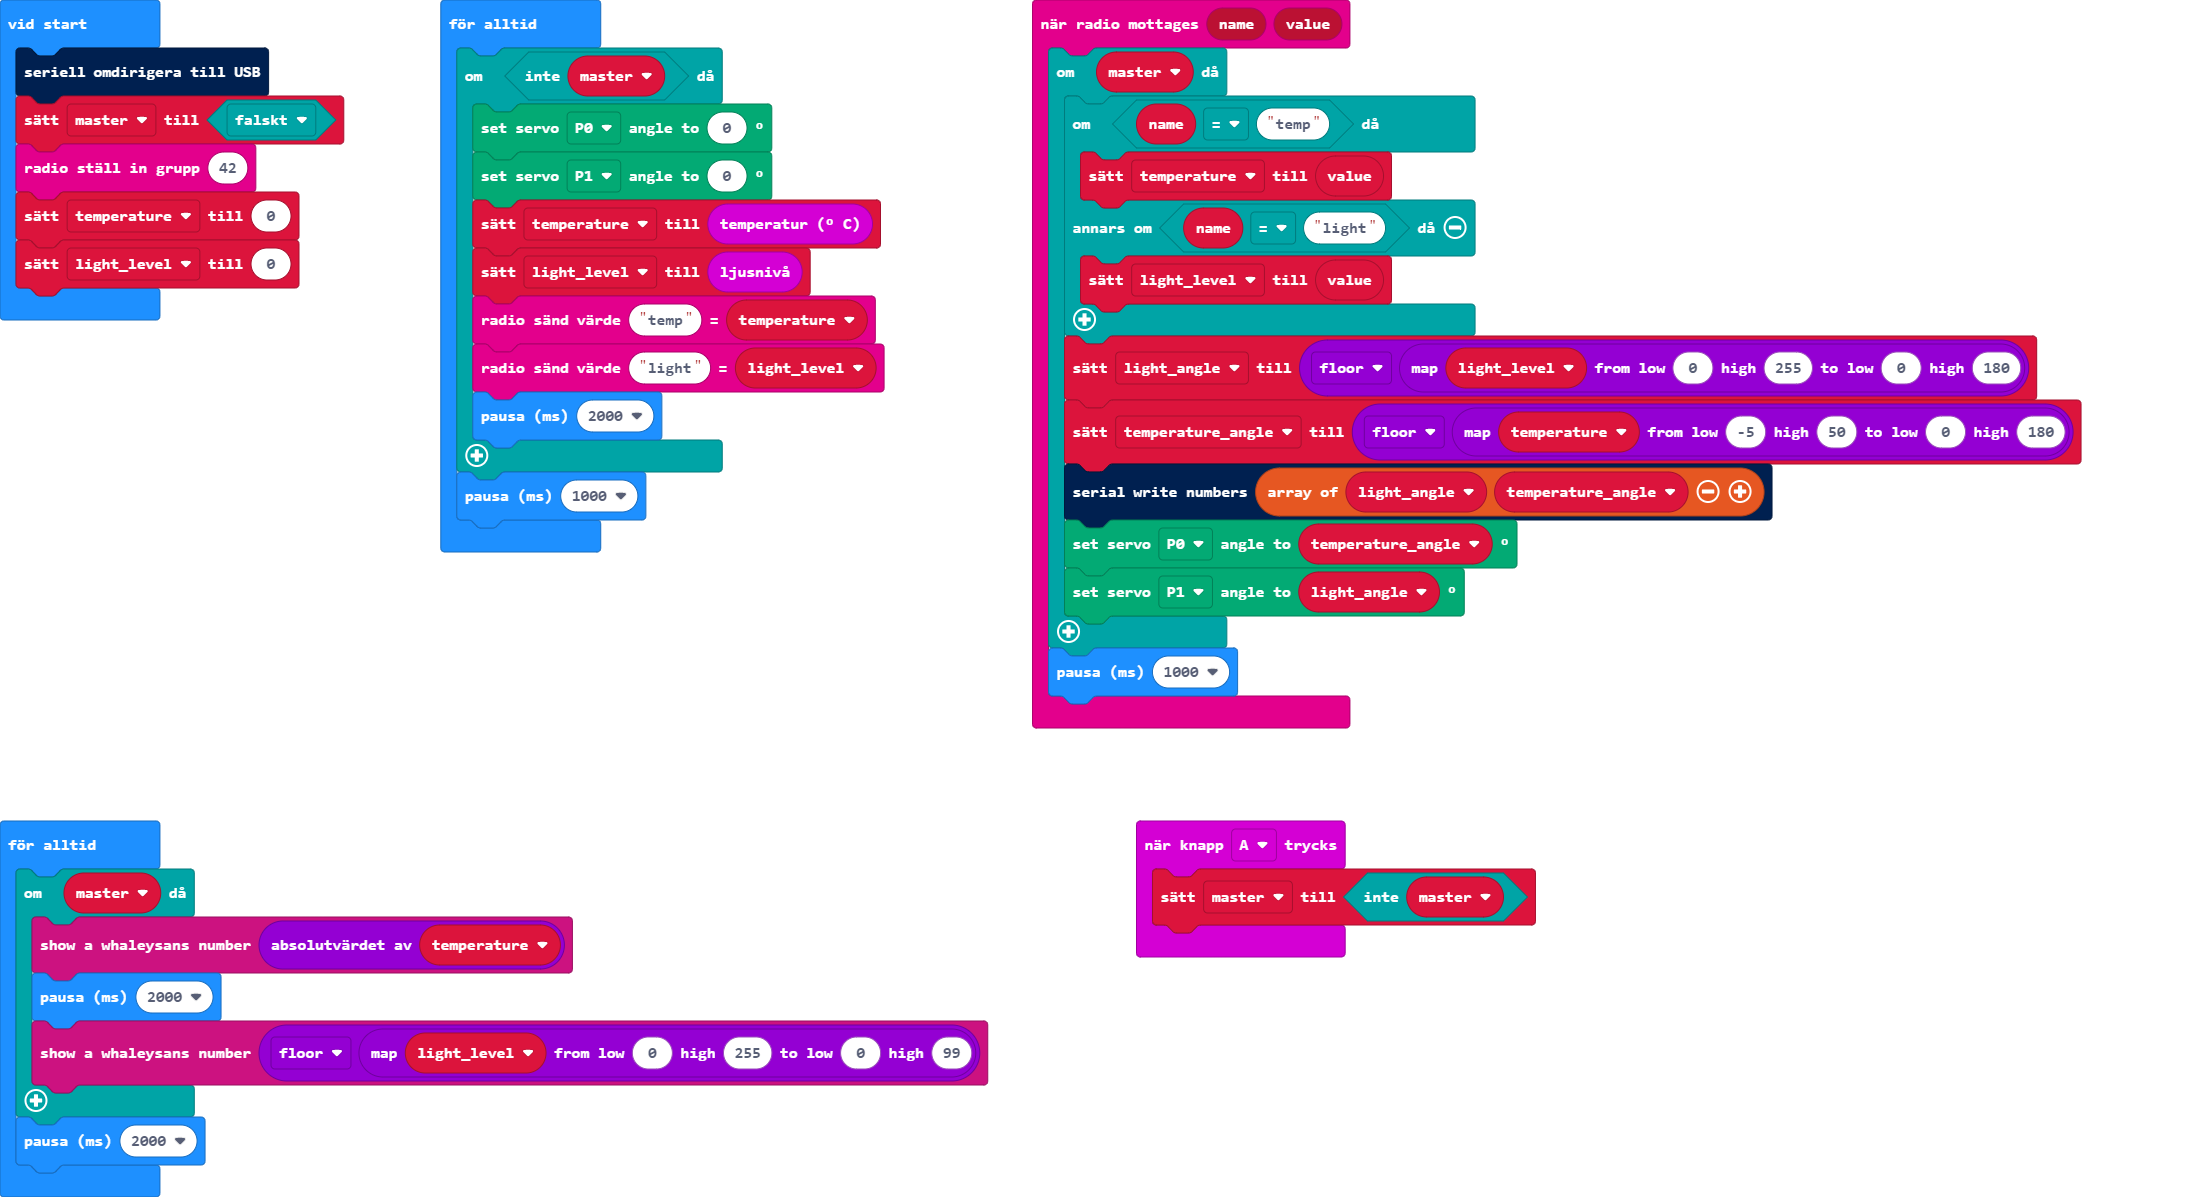
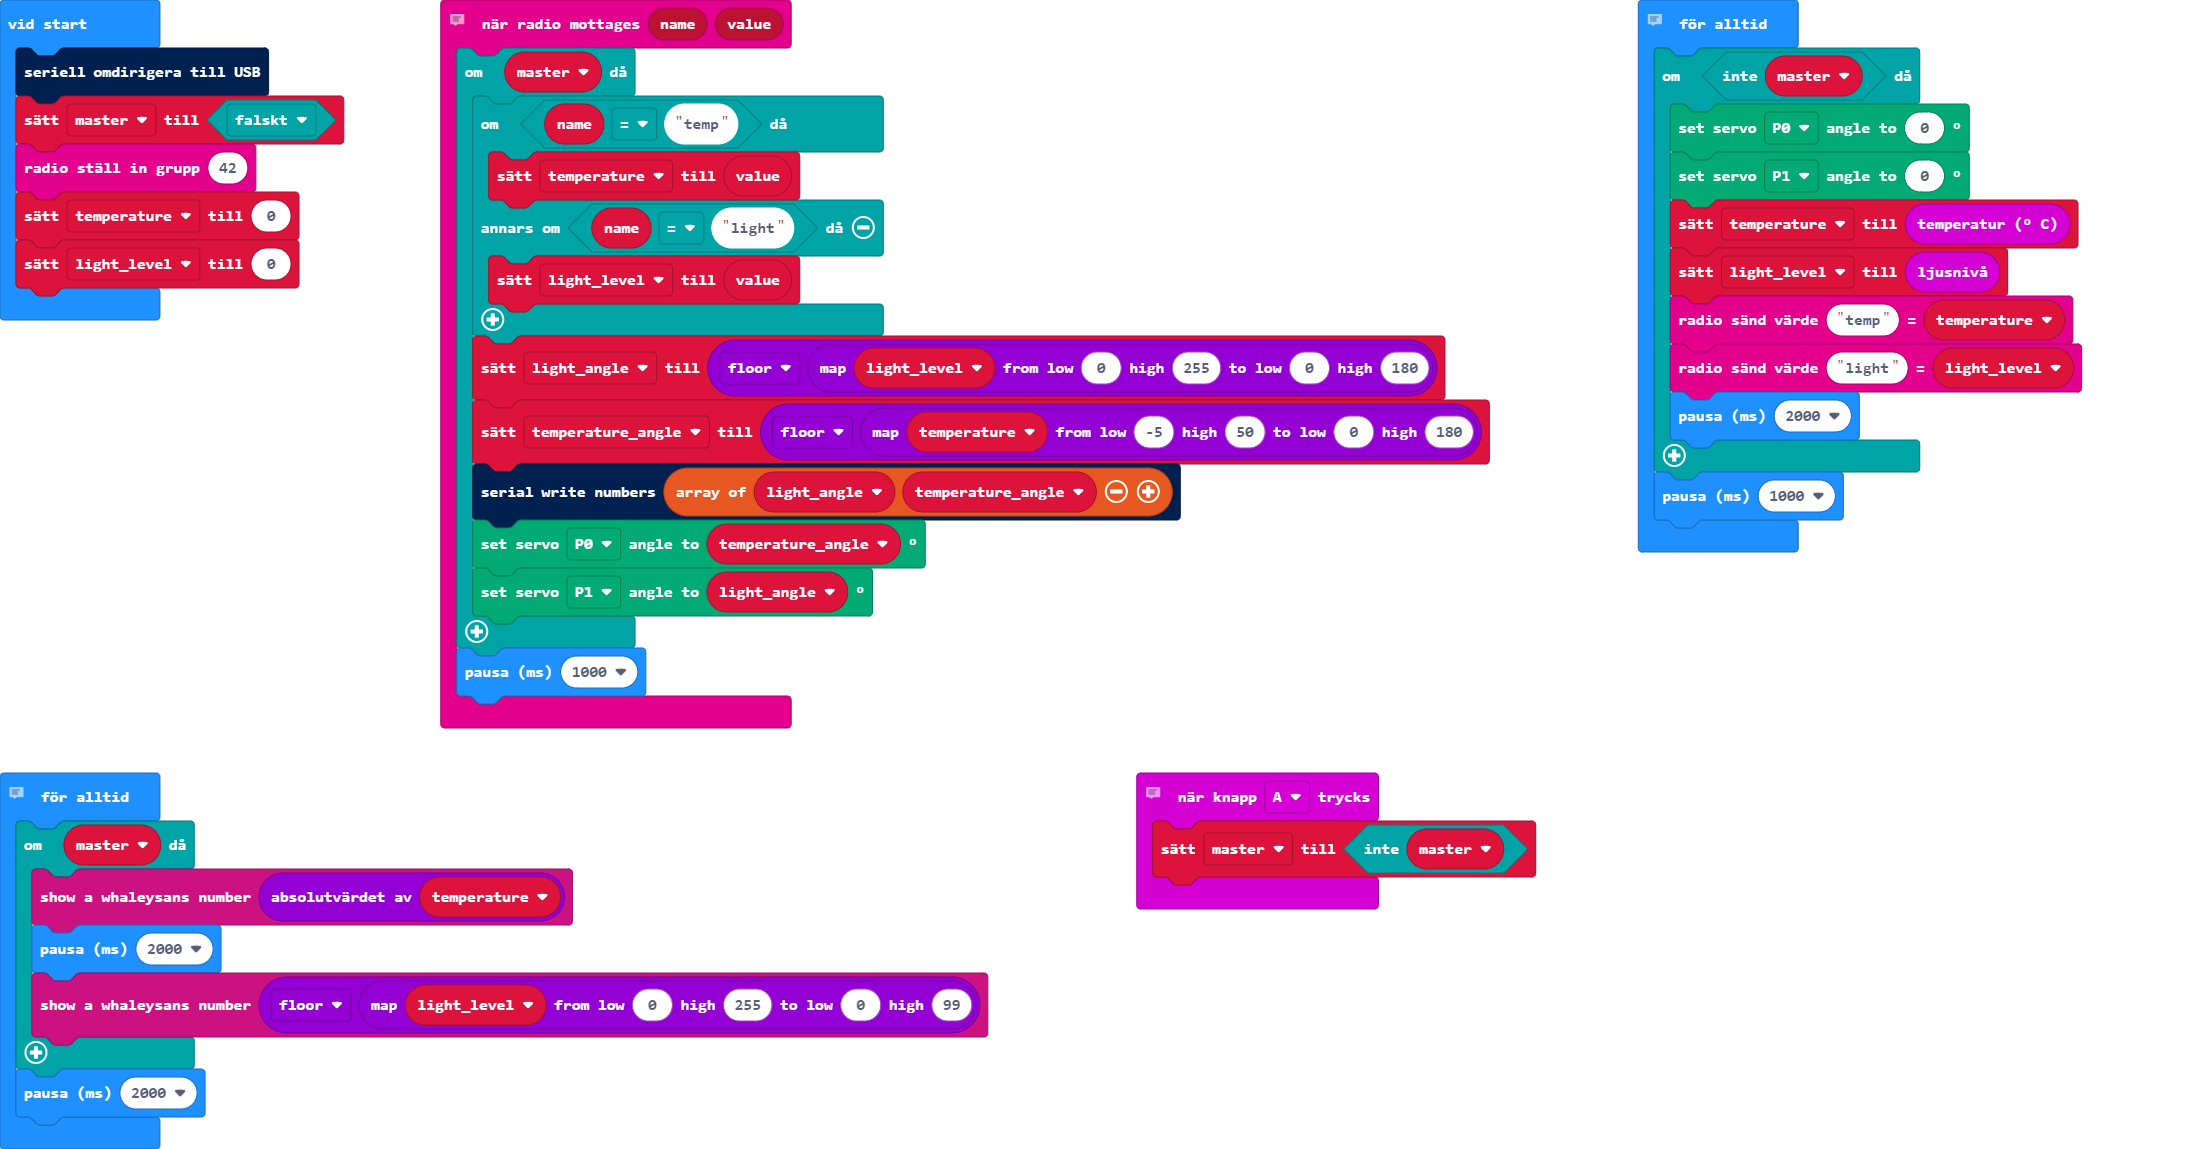
Some comments.

diff --git a/main.ts b/main.ts
@@ -1,6 +1,8 @@
+// Switch mode
 input.onButtonPressed(Button.A, function () {
     master = !(master)
 })
+// Radio trigger on master
 radio.onReceivedValue(function (name, value) {
     if (master) {
         if (name == "temp") {
@@ -26,6 +28,7 @@ master = false
 radio.setGroup(42)
 temperature = 0
 light_level = 0
+// remote measure loop
 basic.forever(function () {
     if (!(master)) {
         servos.P0.setAngle(0)
@@ -38,6 +41,7 @@ basic.forever(function () {
     }
     basic.pause(1000)
 })
+// Master display loop
 basic.forever(function () {
     if (master) {
         whaleysans.showNumber(Math.abs(temperature))

diff --git a/main.py b/main.py
@@ -1,0 +1,51 @@
+def on_button_pressed_a():
+    global master
+    master = not (master)
+input.on_button_pressed(Button.A, on_button_pressed_a)
+
+def on_received_value(name, value):
+    global temperature, light_level, light_angle, temperature_angle
+    if master:
+        if name == "temp":
+            temperature = value
+        elif name == "light":
+            light_level = value
+        light_angle = Math.floor(Math.map(light_level, 0, 255, 0, 180))
+        temperature_angle = Math.floor(Math.map(temperature, -5, 50, 0, 180))
+        serial.write_numbers([light_angle, temperature_angle])
+        servos.P0.set_angle(temperature_angle)
+        servos.P1.set_angle(light_angle)
+    basic.pause(1000)
+radio.on_received_value(on_received_value)
+
+temperature_angle = 0
+light_angle = 0
+light_level = 0
+temperature = 0
+master = False
+serial.redirect_to_usb()
+master = False
+radio.set_group(42)
+temperature = 0
+light_level = 0
+
+def on_forever():
+    global temperature, light_level
+    if not (master):
+        servos.P0.set_angle(0)
+        servos.P1.set_angle(0)
+        temperature = input.temperature()
+        light_level = input.light_level()
+        radio.send_value("temp", temperature)
+        radio.send_value("light", light_level)
+        basic.pause(2000)
+    basic.pause(1000)
+basic.forever(on_forever)
+
+def on_forever2():
+    if master:
+        whaleysans.show_number(abs(temperature))
+        basic.pause(2000)
+        whaleysans.show_number(Math.floor(Math.map(light_level, 0, 255, 0, 99)))
+    basic.pause(2000)
+basic.forever(on_forever2)
